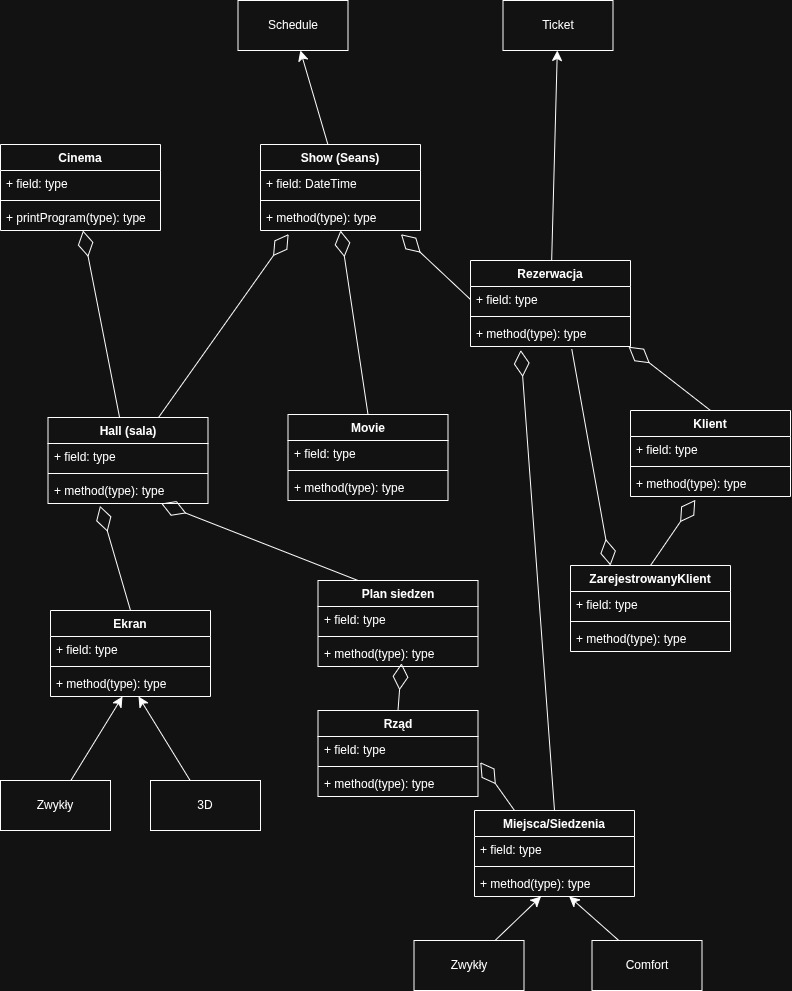
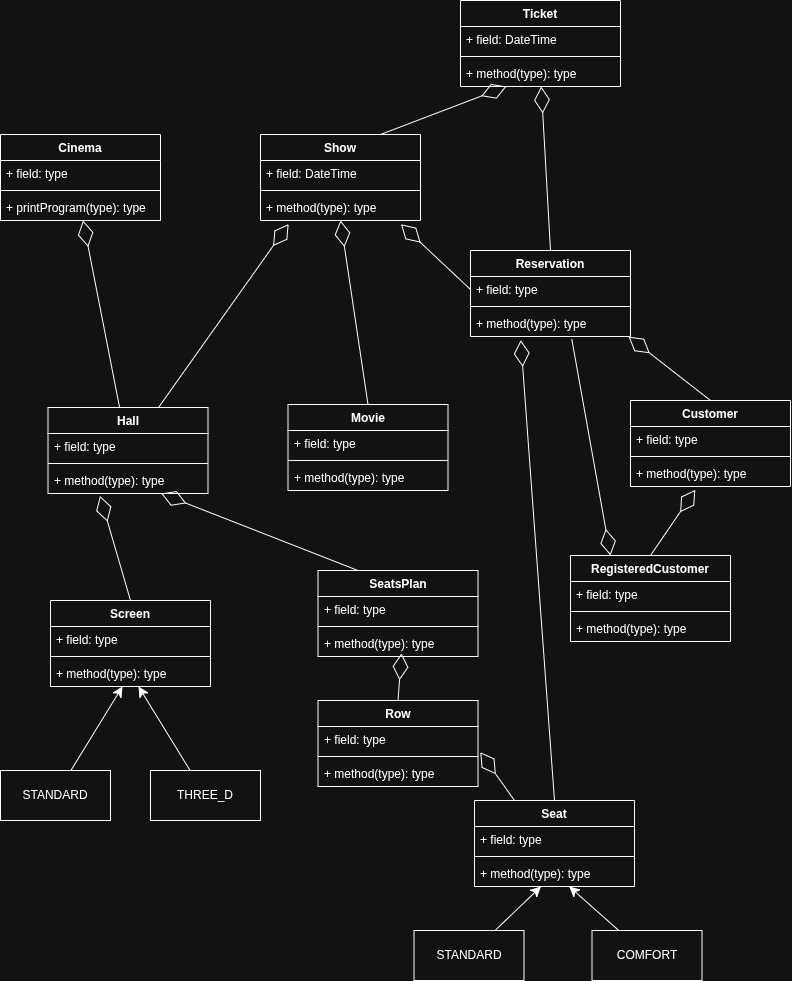
Added printProgramme for week

diff --git a/src/main/java/org/multipleks/Main.java b/src/main/java/org/multipleks/Main.java
@@ -2,10 +2,12 @@ package org.multipleks;
 
 import org.multipleks.IO.MovieJsonLoader;
 import org.multipleks.repertuar.Movie;
+import org.multipleks.repertuar.Show;
 import org.multipleks.struktura.Cinema;
 import org.multipleks.struktura.Hall;
 import org.multipleks.struktura.HallFactory;
 
+import java.time.LocalDateTime;
 import java.util.ArrayList;
 import java.util.List;
 
@@ -27,6 +29,17 @@ public class Main {
         halls1.add(vipHall1);
         halls1.add(normalHall1);
 
+        Show show1 = new Show(movies.get(0), threeDHall1, LocalDateTime.of(2026, 6, 15, 18, 0));
+        Show show2 = new Show(movies.get(1), vipHall1, LocalDateTime.of(2026, 6, 15, 17, 0));
+        Show show3 = new Show(movies.get(2), normalHall1, LocalDateTime.of(2026, 6, 15, 16, 0));
+        Show show4 = new Show(movies.get(0), normalHall1, LocalDateTime.of(2026, 6, 10, 12, 0));
+
+        threeDHall1.addShow(show1);
+        vipHall1.addShow(show2);
+        normalHall1.addShow(show3);
+        normalHall1.addShow(show4);
+
+
         Cinema cinema1 = new Cinema("Zakopianka", "Kraków", halls1);
 
         //Multiplex #2
@@ -44,9 +57,10 @@ public class Main {
         Cinema cinema2 = new Cinema("Bonarka", "Kraków", halls2);
 
         //Metody do wywołania
-        System.out.println(cinema2.getHallsList().get(0).getSeatsPlan().getRowList().get(3).getRowName());
-        System.out.println(cinema2.getHallsList().get(0).getSeatsPlan().getRowList().get(3).getSeatsList().get(5).getNumber());
+        //System.out.println(cinema2.getHallsList().get(0).getSeatsPlan().getRowList().get(3).getRowName());
+        //System.out.println(cinema2.getHallsList().get(0).getSeatsPlan().getRowList().get(3).getSeatsList().get(5).getNumber());
 
+        cinema1.printProgramme();
 
 
         //... configuration and test data should be inserted here...

diff --git a/src/main/java/org/multipleks/struktura/Cinema.java b/src/main/java/org/multipleks/struktura/Cinema.java
@@ -1,5 +1,9 @@
 package org.multipleks.struktura;
 
+import org.multipleks.repertuar.Movie;
+import org.multipleks.repertuar.Show;
+
+import java.time.LocalDateTime;
 import java.util.List;
 
 public class Cinema {
@@ -12,6 +16,28 @@ public class Cinema {
         this.name = cinemaName;
         this.address = address;
         this.hallsList = hallsList;
+    }
+    public void printProgramme(){
+        LocalDateTime now = LocalDateTime.now();
+        LocalDateTime weekLater = now.plusDays(7);
+        System.out.println("REPERTUAR KINO "+name);
+        for(Hall hall : hallsList){
+            String hallName = hall.getHallName();
+            System.out.println(hallName+":");
+            List<Show> showList = hall.getShowList();
+            for(Show show : showList){
+                LocalDateTime showDate = show.getDate();
+                if(showDate.isAfter(now) && showDate.isBefore(weekLater)){
+                    System.out.println("===========================");
+                    LocalDateTime data = show.getDate();
+                    System.out.println(data);
+                    Movie movie = show.getMovie();
+                    System.out.println(movie.getTitle());
+                    System.out.println(movie.getDirector());
+                    System.out.println(movie.getDescription());
+                }
+            }
+        }
     }
 
     public String getName() {

diff --git a/src/main/java/org/multipleks/struktura/HallFactory.java b/src/main/java/org/multipleks/struktura/HallFactory.java
@@ -17,7 +17,9 @@ public class HallFactory {
             rows.add(new Row(seats));
         }
         SeatsPlan seatsPlan = new SeatsPlan(rows);
-        return new Hall(screen, seatsPlan, baseTicketPrice);
+        Hall hall = new Hall(screen, seatsPlan, baseTicketPrice);
+        hall.setHallName("Sala VIP");
+        return hall;
     }
     public static Hall create3DHall(int numberOfSeatsInRow, int numberOfRows, double baseTicketPrice){
         Screen screen = new Screen(ScreenType.THREE_D);
@@ -30,7 +32,9 @@ public class HallFactory {
             rows.add(new Row(seats));
         }
         SeatsPlan seatsPlan = new SeatsPlan(rows);
-        return new Hall(screen, seatsPlan, baseTicketPrice);
+        Hall hall = new Hall(screen, seatsPlan, baseTicketPrice);
+        hall.setHallName("Sala 3D");
+        return hall;
     }
     public static Hall createNormalHall(int numberOfSeatsInRow, int numberOfRows, double baseTicketPrice){
         Screen screen = new Screen(ScreenType.STANDARD);
@@ -43,6 +47,8 @@ public class HallFactory {
             rows.add(new Row(seats));
         }
         SeatsPlan seatsPlan = new SeatsPlan(rows);
-        return new Hall(screen, seatsPlan, baseTicketPrice);
+        Hall hall = new Hall(screen, seatsPlan, baseTicketPrice);
+        hall.setHallName("Sala Standard");
+        return hall;
     }
 }

diff --git a/src/main/java/org/multipleks/struktura/Hall.java b/src/main/java/org/multipleks/struktura/Hall.java
@@ -6,6 +6,7 @@ import java.util.ArrayList;
 import java.util.List;
 
 public class Hall {
+    private String hallName;
     private Screen screen;
     private SeatsPlan seatsPlan;
     private double price;
@@ -18,10 +19,21 @@ public class Hall {
         this.price = price;
     };
 
+    public String getHallName() {
+        return hallName;
+    }
+
+    public void setHallName(String hallName) {
+        this.hallName = hallName;
+    }
+
     public double getPrice() {
         return price;
     }
 
+    public void addShow(Show show){
+        showList.add(show);
+    }
     public Screen getScreen() {
         return screen;
     }

diff --git a/README.md b/README.md
@@ -1,22 +1,6 @@
 # mhuMultipleks
 
-Warstwa struktury:
-- Cinema -> Hall + Screen -> Row -> Seat
-
-Warstwa repertuaru:
-- Movie (Ma tytuł, rezysera, opis, czas trwania)
-- Show (Ma jeden movie, jeden HAll, data)
-- Schedule (Ma wiele Show)
-
-Warstwa rezerwacji:
-- Reservation (Ma Customer, Ma wiele Seat, Ma Show)
-- Customer (Ma email)
-- Ticket (Ma jedną rezerwację)
-
-Notatki:
-- Ticket do ogarnięcia 
-- Schedule do ogarnięcia
-
+Plik z filmami jest w formie pliku .json w folderze "resources"
 
 ## Schemat UML
 
